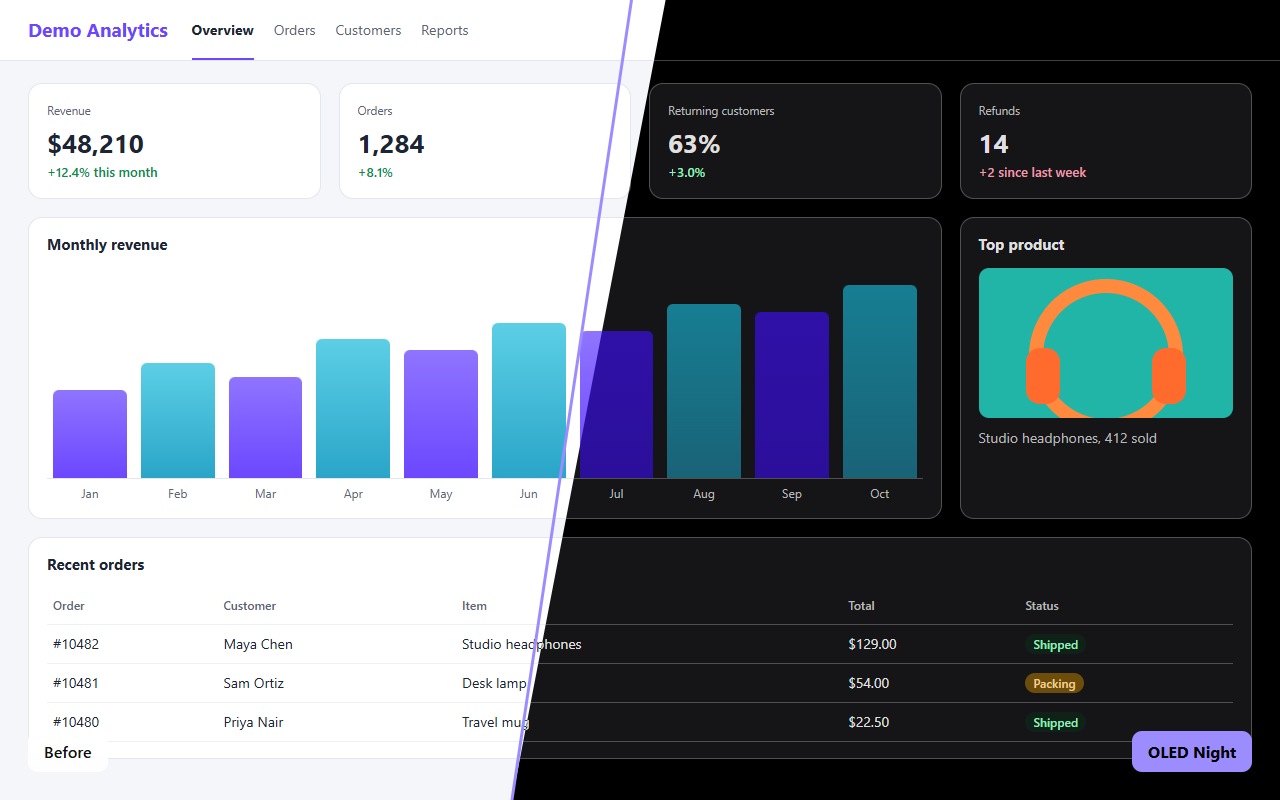
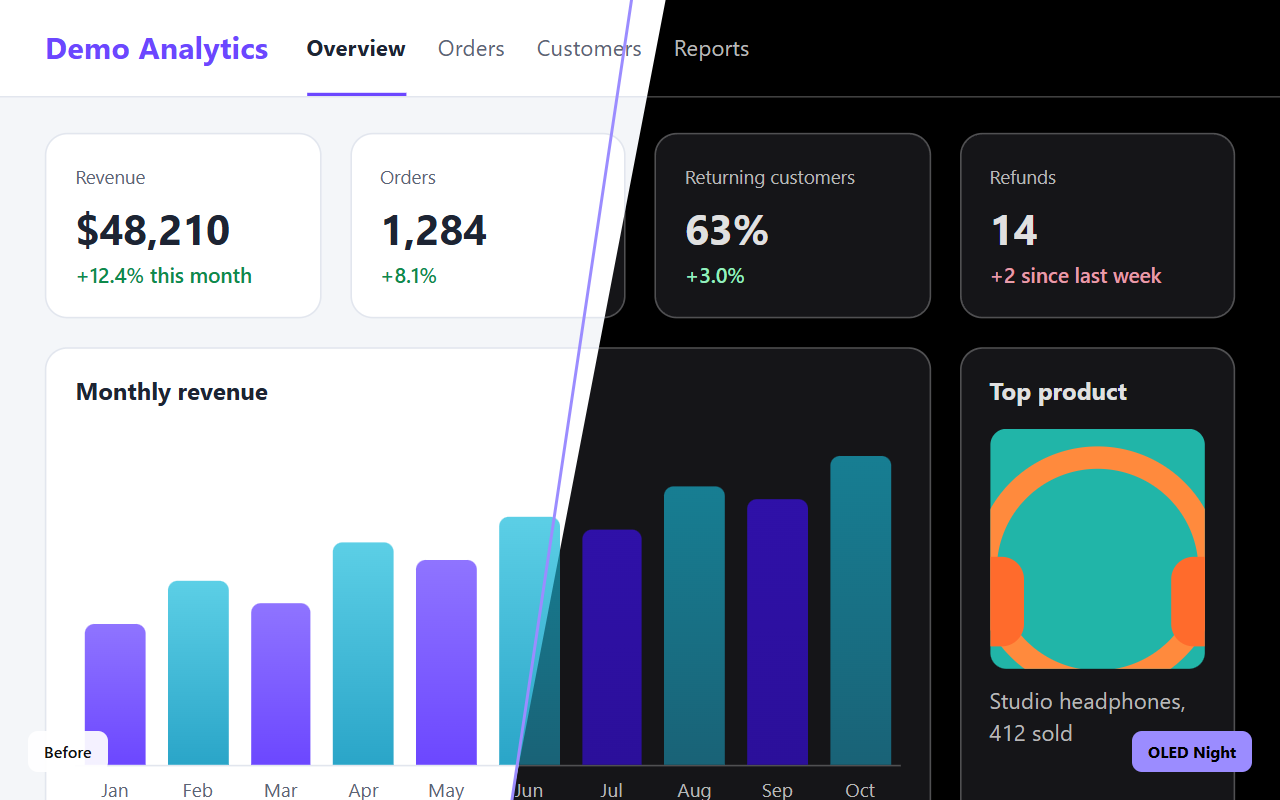
Shorter store descriptions and zoomed store screenshots
- Chrome and Firefox descriptions cut from about 570 to 150 words; full
  permission and report details stay in the Privacy tab and PRIVACY.md.
- German, Spanish, Romanian and Russian descriptions shortened to match.
- Store screenshots render at 1.6x (inbox 1.25x) and the popup fills the
  frame, so they read at store thumbnail size.
- New AMO screenshot captions so the changed images replace the old ones.

diff --git a/tests/amo-listing.test.js b/tests/amo-listing.test.js
@@ -19,7 +19,8 @@ const {join} = require('node:path');
   // Listing assets come from the repository: English text, privacy, summaries, five screenshots.
   const assets = amoListingAssets(root);
   assert.doesNotMatch(assets.description, /Chrome/);
-  assert.match(assets.description, /WHY OLED NIGHT/);
+  assert.match(assets.description, /Private by design/);
+  assert.ok(assets.description.split(/s+/).length < 200, "Firefox description stays short");
   assert.equal(assets.summary['en-US'], JSON.parse(readFileSync(join(root, '_locales', 'en', 'messages.json'), 'utf8')).extDescription.message);
   assert.deepEqual(Object.keys(assets.summary).sort(), ['de', 'en-US', 'es-ES', 'ro', 'ru']);
   assert.deepEqual(Object.keys(assets.translations).sort(), ['de', 'es-ES', 'ro', 'ru']);

diff --git a/store/LISTING.md b/store/LISTING.md
@@ -18,45 +18,26 @@ Upload `dist/oled-night-<version>.zip` (build it with `node tools/package.mjs`).
 
 **Description:**
 
-> OLED Night is a true-black dark mode for every website. Pages turn pure black instead of dark gray, so OLED and AMOLED screens can switch pixels off, while text stays crisp and photos and video keep their original colors.
+Keep it short; full permission and report details live in the Privacy tab and `store/PRIVACY.md`.
+
+> OLED Night is a true-black dark mode for every website. Backgrounds turn pure black (#000000) instead of dark gray, so OLED screens can switch pixels off, while text stays crisp and photos, video and logos keep their real colors.
 >
-> WHY OLED NIGHT
-> • True black, not gray: page backgrounds go pure black, with subtly raised cards and panels so layouts stay easy to follow.
-> • Images stay intact: photos, video, artwork, logos and brand accents are protected instead of inverted.
-> • Readable text: primary, secondary and muted text are tuned for contrast on black, including dark logo lettering without a glow.
-> • Built for modern sites: handles modern CSS colors, web components, embedded frames and pages that change as you scroll. Verification widgets are left untouched.
+> • Pick a mode per site: Automatic, Full recolor, Deepen blacks only, Invert or Off.
+> • Adjust text brightness, contrast and image dimming for each site.
+> • Schedule dark mode, or toggle it with Alt+Shift+E (everywhere) and Alt+Shift+D (this site).
+> • Works on modern sites, including web apps, embedded frames and pages that update as you scroll.
 >
-> CONTROL EVERY SITE
-> • Choose a mode per site: Automatic, Full recolor, Deepen blacks only, Invert (for compatible canvas apps) or Off.
-> • Per-site text brightness, surface contrast and optional image dimming. All sites holds your defaults; saved site choices take priority.
-> • Schedule dark mode, and export or import your settings.
-> • Shortcuts: Alt+Shift+E pauses or resumes OLED Night everywhere; Alt+Shift+D toggles the current site. Alternates are Ctrl+Shift+9 and Ctrl+Shift+8 (Command instead of Ctrl on macOS). Customize them in your browser; the popup shows the assigned keys.
-> • Site-aware: Figma keeps its native design colors, and ChatGPT keeps its native palette on OLED black surfaces for smooth streaming.
+> Private by design: everything runs on your device. No analytics, ads or account, and no browsing history is recorded. If a site looks wrong, Report a broken site sends only what you review and approve.
 >
-> PRIVATE BY DESIGN
-> • Recoloring runs entirely on your device. No analytics, background telemetry, ads or account.
-> • OLED Night does not record or save your browsing history. Settings and per-site preferences stay in your browser's storage and can sync through your browser profile. The developer cannot see them.
+> The optional OLED Night Chrome theme darkens Chrome's own window too.
 >
-> OPTIONAL PRIVATE BUG REPORTS
-> • If a site looks wrong, choose Report a broken site. You preview scrubbed technical diagnostics and can add notes or a screenshot. Nothing is sent until you choose Submit report.
-> • Reports are stored privately for up to 30 days, and only the maintainer can read them. No GitHub account is needed to submit.
-> • Automatic diagnostics exclude page text, entered values, URL paths, query strings, cookies and browser identifiers. Notes and screenshots can contain private information, so review them before submitting.
-> • A public GitHub tracking issue shows only a generic title, or the site domain, problem type, extension version and color mode if you pick a problem type. Your notes, other diagnostics and screenshots are never published.
-> • You can also save a full diagnostic report locally and share it yourself.
->
-> WHY IT ASKS FOR WEBSITE ACCESS
-> Website access lets OLED Night read page styles and recolor pages locally. Storage saves settings; activeTab identifies the current site for the popup and shortcuts; scripting checks whether the tab can be reached. Clipboard access is optional and used only when you paste a screenshot into a report.
->
-> Some pages restrict extensions, and a few sites may work better in another mode or with OLED Night off. The separate OLED Night Chrome theme darkens Chrome's own window; it is optional.
->
-> Free and open source under GPL-3.0.
-> Source and support: https://github.com/bc1224/oled-night
+> Free and open source: https://github.com/bc1224/oled-night
 > Privacy policy: https://github.com/bc1224/oled-night/blob/main/store/PRIVACY.md
 
 **Graphic assets:**
 - Store icon: `store/images/store-icon-128.png` (128x128, artwork padded to 96x96)
 - Screenshots (1280x800), upload in this order:
-  1. `store/images/screenshot-1-before-after.png` (article page, before and after)
+  1. `store/images/screenshot-1-before-after.png` (inbox, before and after)
   2. `store/images/screenshot-2-popup.png` (popup)
   3. `store/images/screenshot-3-dashboard.png` (analytics dashboard, before and after; source page `store/demo-dashboard.html`)
   4. `store/images/screenshot-4-welcome.png` (welcome page)
